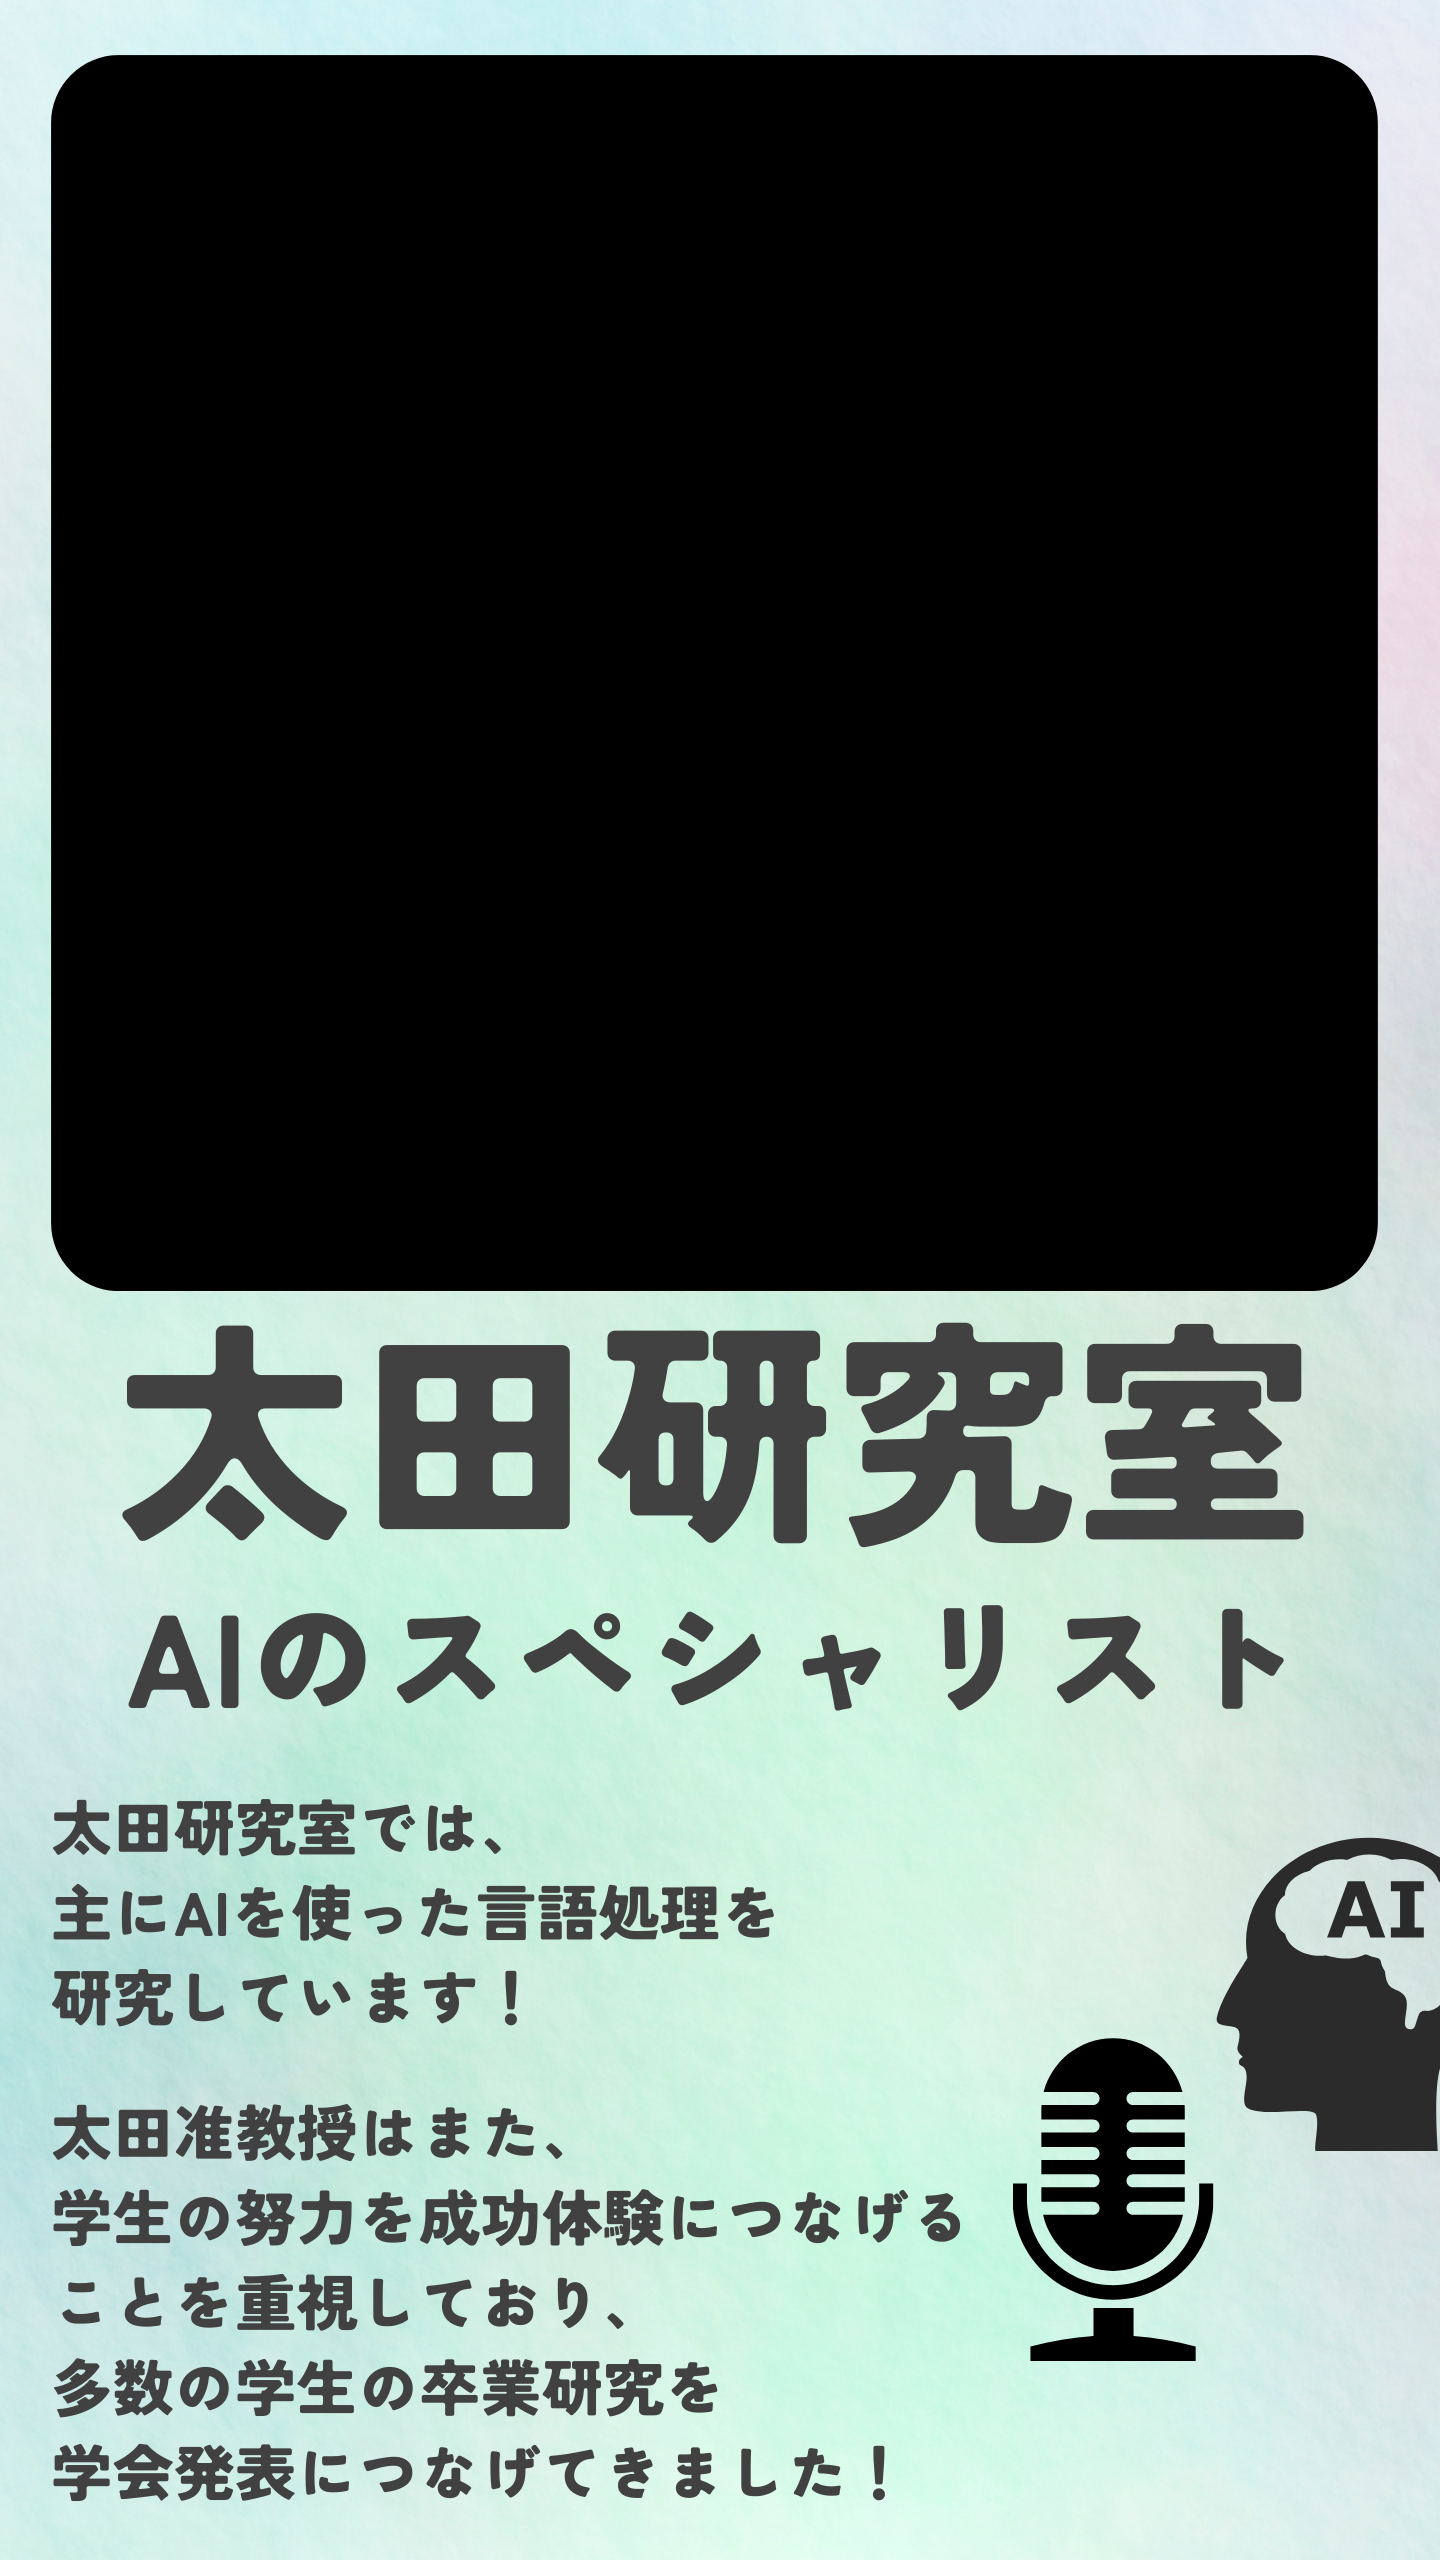
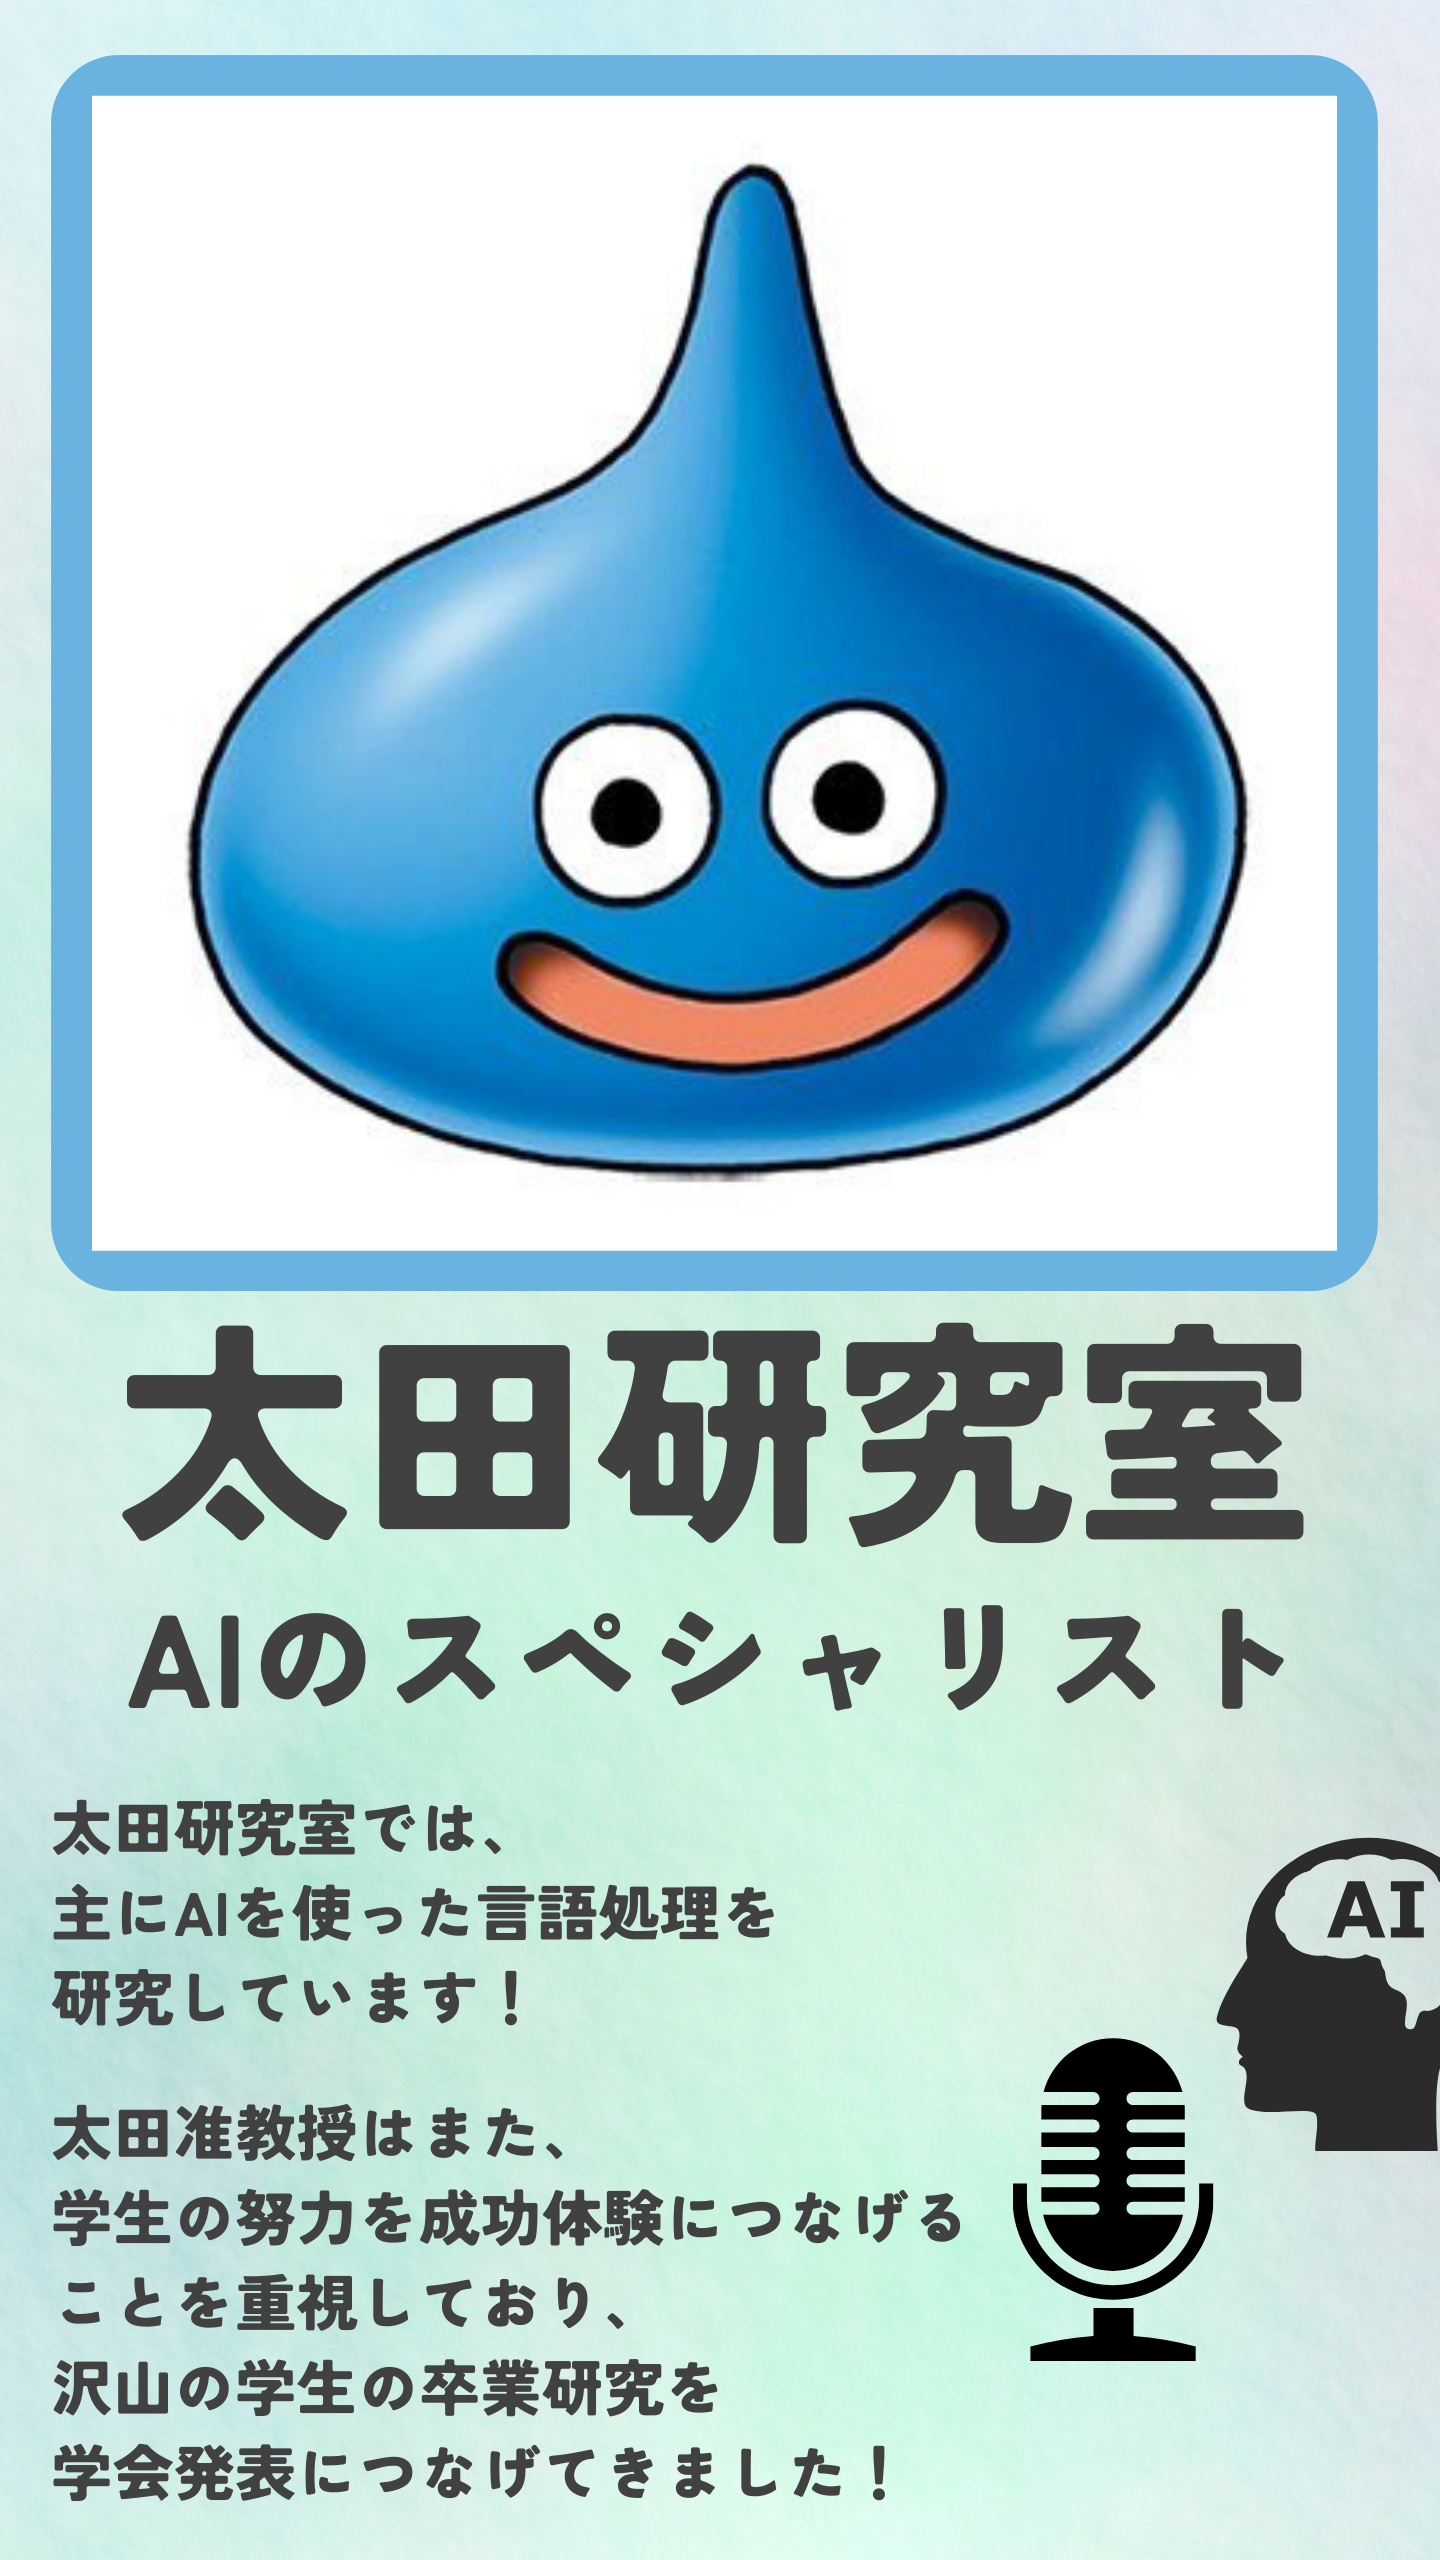
写真をさらに追加
岡本の分終了

diff --git a/introduction.html b/introduction.html
@@ -14,10 +14,19 @@
         const params = new URLSearchParams(url.search);
 
         var imgData = {
-            1: 'SOASAI1.png',
-            2: '資格.png',
-            3: '太田研究室.png'
-
+            1: 'manaba.png',
+            2: '太田研究室.png',
+            3: 'プログラミング研究部.png',
+            4: 'ロボット研究部.png',
+            5: '卒業研究.png',
+            6: '吉田研究室.png',
+            7: '安野研究室.png',
+            8: '岡本研究室.png',
+            9: '平山研究室.png',
+            10: '杉野研究室.png',
+            11: '福田研究室.png',
+            12: '福見研究室.png',
+            13: '資格.png'
         };
 
         document.getElementById("img").innerHTML = '<img src="intro_images/'+imgData[params.get('id')] + '" width="100%"></img>';
